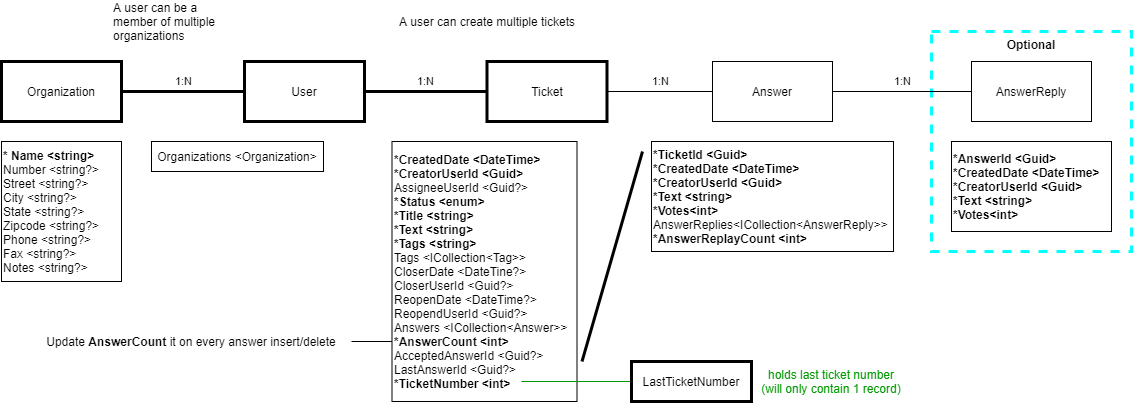
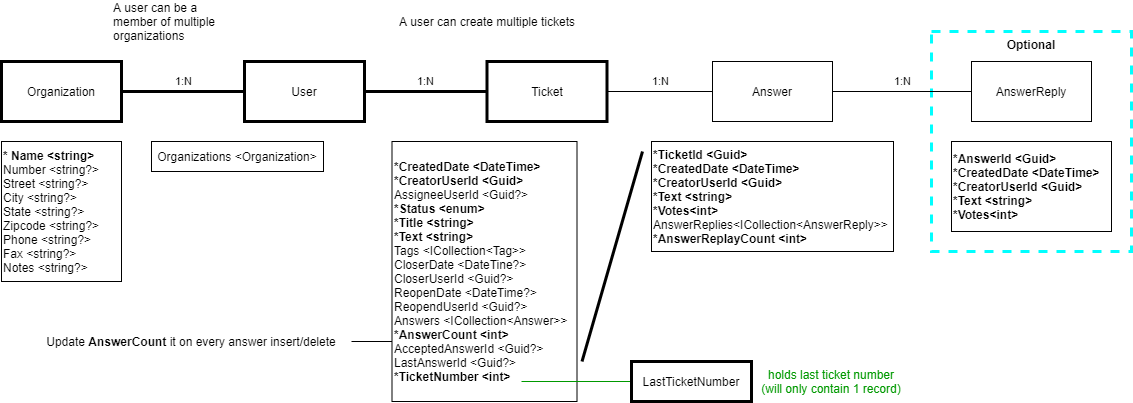
WIP

Changed region(s): [[0.3398, 0.3871, 0.4943, 0.9826]]

diff --git a/Part1-HelpDeskDomainModel.md b/Part1-HelpDeskDomainModel.md
@@ -37,6 +37,11 @@
 |---|------------------|-----------------------------|-----:|-----:|----------------------------------|
 | * | Organizations    | ICollection\<Organization>  |      |      |                                  |
 
+##### Tag : FullAuditedAggregateRoot\<Guid>
+|   | Property         | Type                        | Min  | Max  | Examples                         |
+|---|------------------|-----------------------------|-----:|-----:|----------------------------------|
+| * | Text             | string                      |      | 50   |                                  |
+
 ##### Ticket : FullAuditedAggregateRoot\<Guid>
 |   | Property         | Type                        | Min  | Max  | Examples                         |
 |---|------------------|-----------------------------|-----:|-----:|----------------------------------|
@@ -47,7 +52,6 @@
 | * | Status           | enum                        |      |      | Open                             |
 | * | Title            | string                      |      | 250  |                                  |
 | * | Text             | string                      |      | 1024 |                                  |
-| * | Tags             | string                      |      | 500  |                                  |
 | * | Tags             | ICollection\<Tag>           |      |      |                                  |
 |   | CloserDate       | DateTine?                   |      |      |                                  |
 |   | CloserUserId     | Guid?                       |      |      | Navigation Property              |
